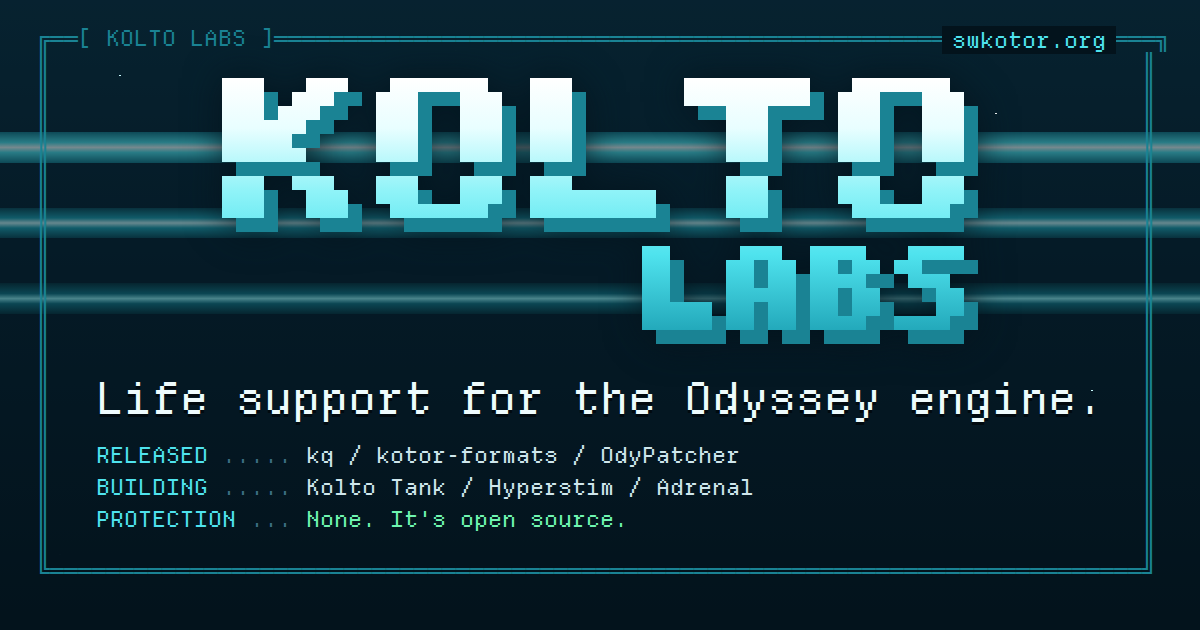
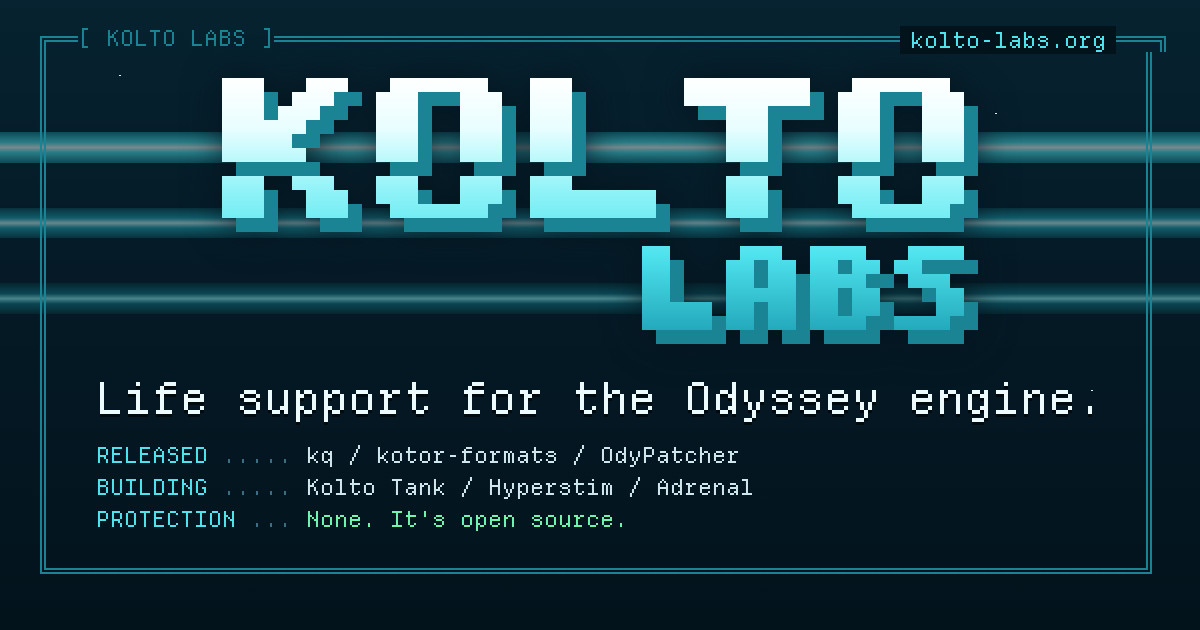
Make kolto-labs.org primary with website and launcher mirrors

diff --git a/play-proxy/index.js b/play-proxy/index.js
@@ -1,0 +1,62 @@
+const UPSTREAM = new URL('https://play.swkotor.net');
+const PRIMARY = 'play.kolto-labs.org';
+const HOSTS = new Set([UPSTREAM.hostname, 'www.play.swkotor.net', PRIMARY, 'play.swkotor.org']);
+
+function rewrite(value, requestUrl, canonical = false) {
+  if (!value) return value;
+  if (!canonical && !/^https?:\/\//i.test(value) && !value.startsWith('//')) return value;
+  try {
+    const target = new URL(value, UPSTREAM);
+    if (!HOSTS.has(target.hostname)) return value;
+    target.protocol = 'https:';
+    target.hostname = canonical ? PRIMARY : requestUrl.hostname;
+    return target.toString();
+  } catch {
+    return value;
+  }
+}
+
+export default {
+  async fetch(request) {
+    const url = new URL(request.url);
+    if (url.protocol !== 'https:') {
+      url.protocol = 'https:';
+      return Response.redirect(url.toString(), 301);
+    }
+    const target = new URL(UPSTREAM);
+    target.pathname = url.pathname;
+    target.search = url.search;
+    const headers = new Headers(request.headers);
+    headers.delete('host');
+    headers.set('accept-encoding', 'identity');
+    const origin = headers.get('origin');
+    if (origin === url.origin) headers.set('origin', UPSTREAM.origin);
+    const referer = headers.get('referer');
+    if (referer?.startsWith(url.origin + '/')) headers.set('referer', referer.replace(url.origin, UPSTREAM.origin));
+    const upstream = await fetch(target, {
+      method: request.method,
+      headers,
+      body: request.method === 'GET' || request.method === 'HEAD' ? undefined : request.body,
+      redirect: 'manual',
+    });
+    if (upstream.status === 101) return upstream;
+    const out = new Headers(upstream.headers);
+    for (const key of ['content-encoding', 'content-length', 'transfer-encoding', 'connection']) out.delete(key);
+    if (out.has('location')) out.set('location', rewrite(out.get('location'), url));
+    if (out.get('access-control-allow-origin') === UPSTREAM.origin) out.set('access-control-allow-origin', url.origin);
+    // Keep any upstream session cookie scoped to the hostname serving the mirror.
+    const cookies = upstream.headers.getAll('set-cookie');
+    if (cookies.length) {
+      out.delete('set-cookie');
+      for (const cookie of cookies) out.append('set-cookie', cookie.replace(/;\s*Domain=\.?(?:play\.)?swkotor\.net(?=;|$)/ig, ''));
+    }
+    const response = new Response(upstream.body, { status: upstream.status, statusText: upstream.statusText, headers: out });
+    if (request.method === 'HEAD' || !out.get('content-type')?.includes('text/html')) return response;
+    return new HTMLRewriter()
+      .on('a[href], link[href]', { element(el) { el.setAttribute('href', rewrite(el.getAttribute('href'), url, el.getAttribute('rel') === 'canonical')); } })
+      .on('form[action]', { element(el) { el.setAttribute('action', rewrite(el.getAttribute('action'), url)); } })
+      .on('script[src], img[src], iframe[src], source[src]', { element(el) { el.setAttribute('src', rewrite(el.getAttribute('src'), url)); } })
+      .on('meta[property="og:url"], meta[name="twitter:url"]', { element(el) { el.setAttribute('content', rewrite(el.getAttribute('content'), url, true)); } })
+      .transform(response);
+  },
+};

diff --git a/site-live/src/lib/seo.ts b/site-live/src/lib/seo.ts
@@ -149,6 +149,7 @@ export function headHtml(h: Head): string {
     `<meta name="description" content="${esc(h.description)}">`,
     `<meta name="robots" content="${h.robots}">`,
     h.canonical && `<link rel="canonical" href="${esc(h.canonical)}">`,
+    `<link rel="alternate" type="application/atom+xml" title="Kolto Labs updates" href="${SITE_URL}/feed.xml">`,
     `<meta property="og:site_name" content="Kolto Labs">`,
     `<meta property="og:type" content="${h.ogType}">`,
     `<meta property="og:title" content="${esc(h.title)}">`,

diff --git a/site-live/src/content/index.ts b/site-live/src/content/index.ts
@@ -29,7 +29,7 @@ function withoutJoin(c: SiteContent): SiteContent {
 export const content = PAGES.join ? full : withoutJoin(full);
 
 /** Canonical origin. Single place to change after deploy (content.siteUrl wins). */
-export const SITE_URL = (content.siteUrl || 'https://swkotor.org').replace(/\/+$/, '');
+export const SITE_URL = (content.siteUrl || 'https://kolto-labs.org').replace(/\/+$/, '');
 
 export const LINKS = {
   github: 'https://github.com/kolto-labs',

diff --git a/README.md b/README.md
@@ -1,6 +1,6 @@
 # Kolto Labs website
 
-Source for the [Kolto Labs website](https://koltolabs.bodecloud.workers.dev/).
+Source for the [Kolto Labs website](https://kolto-labs.org/).
 
 ## Run locally
 
@@ -41,3 +41,9 @@ Keep these directories together: the Vite and TypeScript configurations resolve 
 Imported on 2026-11-14 from the current local site source, including its existing uncommitted site changes. The source baseline was local commit `b0e65db`. The deployed website currently serves an older restored bundle with the suffix `r20261013-restore`; this import is not claimed to reproduce that deployment byte for byte. Importing this repository does not deploy the website.
 
 The production UI and audio source captured in local commit `00a8fdb` was subsequently restored to retain the deployed settings dialog, audio routing, and scene integration. The newer Play route and current content are retained. Source integration fixes are included; the original local archive and history are unchanged.
+
+## Domains
+
+The primary site is https://kolto-labs.org/. https://swkotor.org/ serves the same Worker and assets as a mirror. Canonical URLs, Open Graph metadata, the sitemap, robots.txt and generated share cards use kolto-labs.org. The www hostnames serve the matching site.
+
+The existing browser launcher is available at https://play.kolto-labs.org/ and mirrored at https://play.swkotor.org/. Both point to the `kolto-play` proxy configured in `play-proxy/wrangler.jsonc`, retaining the existing application upstream and paths.

diff --git a/site-live/README.md b/site-live/README.md
@@ -1,4 +1,4 @@
-# swkotor.org
+# kolto-labs.org
 
 The Kolto Labs website. Vite + React + TypeScript, every route prerendered to static HTML, served as Cloudflare Workers static assets.
 
@@ -25,7 +25,7 @@ Markdown fields (`description`, `body`, `a`, `rePolicy`, `conduct`, `nameUsage`,
 Links that are still placeholders live in `LINKS` in `src/content/index.ts`:
 - the contact email
 
-The site URL comes from `siteUrl` in the content file. The default is `https://swkotor.org`.
+The site URL comes from `siteUrl` in the content file. The default is `https://kolto-labs.org`.
 
 ## Turning the Join page on or off
 
